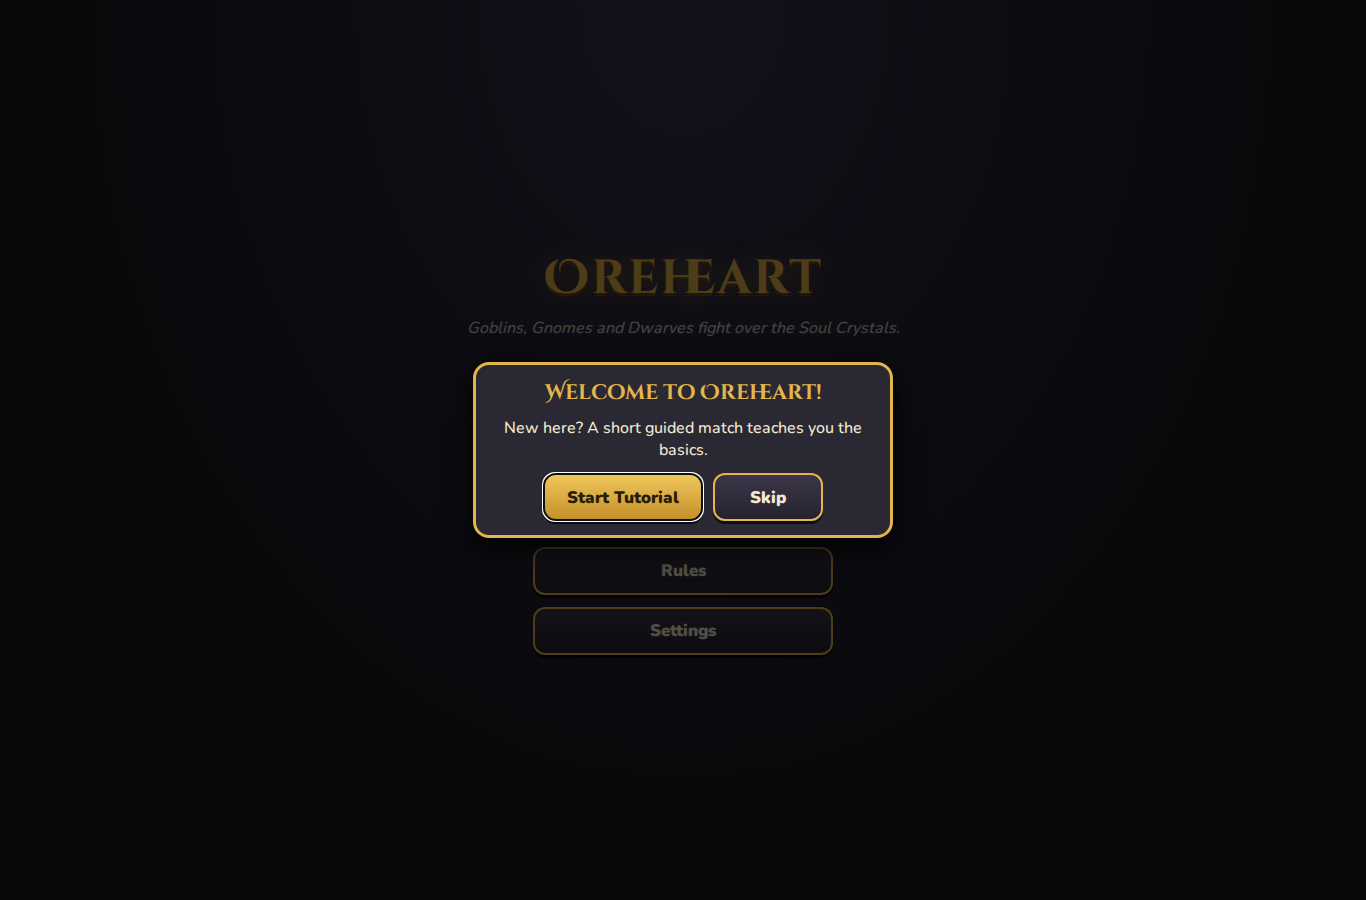
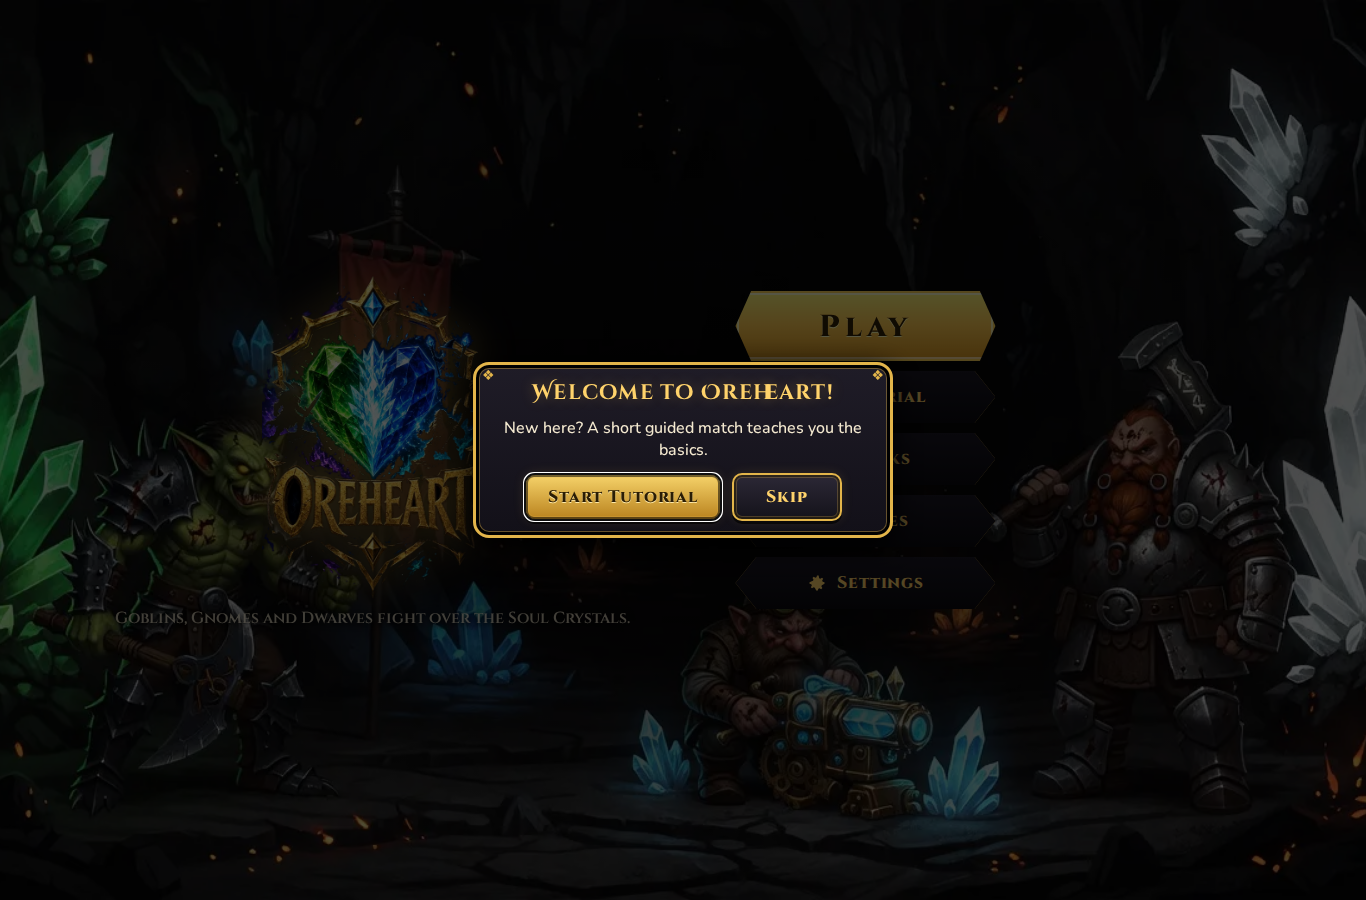
factory: report for #8

diff --git a/factory-data/oreheart-8/REPORT.md b/factory-data/oreheart-8/REPORT.md
@@ -1,22 +1,23 @@
 ## What was built
-Oreheart is a comic-style fantasy card battle in the browser: you play one full match against a computer opponent (Easy, Normal or Hard), or a guided tutorial. This round (the final test round) adds a visual Deck Builder, a new Commander and deck select screen, a savings rule (10 spare crystals move to the Bank), swinging pickaxes on mines, an attack preview, a "Last turn" recap, and a match-end summary.
+Phase 1B Round 1, the art and sound style test. Oreheart now has a dark-fantasy look: a new logo and main menu, finished 3D Goblins, Grubnak with his rocket-barrel retreat, all three Strongholds, a darker battlefield, glowing mines, and a new card design. Goblin card pictures were generated with the Grok image tool. Sound effects and Goblin voices are included, with no music. No game rules were changed.
 
 ## Try these things
-- Open the menu, press **Tutorial**, and follow the tips all the way to Victory.
-- Press **Decks**: single-click a card to enlarge it, double-click to add it, try **Auto-fill**, then **Save**.
-- Press **Play**, pick a Commander, pick a deck (or "+ New Deck"), choose **Hard**, then **Fight!**
-- In a match, drag one of your creatures over an enemy and check the "You deal / You take" box. Let go elsewhere to cancel.
-- Finish your turn with 10 or more crystals and watch "+1 banked" fly into the Bank. After the enemy moves, press **Last turn**.
-- Win or surrender, then check the summary and press **Play again**.
+- Open the main menu and check that the logo and the five buttons look right and match your reference images. Click anywhere first, because sound only starts after a tap.
+- Start a match as Grubnak and look at the Goblin creatures. Tap one to see its funny reaction.
+- Look at the cards in your hand. Do the new frames and Goblin pictures look right?
+- Open Decks and scroll through the cards to see the new card design for every faction.
+- Attack Grubnak's opponent to defeat the Commander and watch the rocket-barrel retreat and KA-BOOM.
+- Open Settings and try the "Sound effects" and "Voices" sliders. In a match, try the mute button.
 
 ## Automated checks
-129 of 129 checks passed. No page errors were recorded.
+142 of 142 checks passed. The checks cover the old game rules and the new art, card and sound features.
 
 ## Things to know
-- The Hard computer opponent's Miner protection and Guard placement is only approximated, so Hard may feel less clever than the spec describes.
-- The builder only checked the pickaxe and Deck Builder layouts in a headless browser at one phone size (844×390).
-- The only screenshots available show the welcome pop-up on the menu (desktop) and the "please rotate your phone" screen (upright phone). Both look fine. I could not see the Deck Builder, select screen or match visually, so please check those yourself in the preview.
-- Visuals are still placeholders and there is no sound.
+- Gnome and Dwarf creatures, Sproingle and Borgo still use plain placeholder figures. This was planned.
+- Gnome and Dwarf cards keep their old pictures inside the new frame.
+- I could only see two screenshots: the main menu on desktop and the "rotate your phone" screen. The menu looks polished, but the welcome pop-up hides part of it. I did not see any in-match screenshots, so I could not check the 3D art myself. Please judge it in the preview.
+- The sounds are synthesized, not recorded, so they may sound simple.
+- The build notes include older "visuals are placeholders; no sound" lines. They are leftovers from earlier rounds.
 
 ## Recommendation
 Ready to approve

diff --git a/factory-data/oreheart-8/test-results.md b/factory-data/oreheart-8/test-results.md
@@ -1,6 +1,6 @@
 # Automated check results
 
-129 of 129 checks passed after 2 build round(s).
+142 of 142 checks passed after 1 build round(s).
 
 - ✅ landscape phone viewport 844x390 › AC24: menu and full-screen match fit a 844x390 landscape phone
 - ✅ landscape phone viewport 740x360 › AC24: menu and full-screen match fit a 740x360 landscape phone
@@ -13,6 +13,7 @@
 - ✅ hearts and turn display 667x375 › AC51: Commander hearts never cover creature labels; turn display top-right (667x375)
 - ✅ hand pop-out at 2x › AC59: a hovered hand card doubles in size and stays fully on-screen
 - ✅ compact stat pill › AC66: creature labels are compact pills with Attack, Health, Movement
+- ✅ phone-size match screenshot › AC90: the match screen renders full screen at 844x390 with no page errors
 - ✅ AC1: main menu has exactly Play, Tutorial, Decks, Rules, Settings and no page errors
 - ✅ AC1: starting a test-mode match causes no page errors
 - ✅ AC2: menu -> choose Commander -> mulligan -> match
@@ -131,3 +132,15 @@
 - ✅ AC75: the tutorial runs to the end, teaching only the current rules
 - ✅ AC76: the Last turn recap lists what the enemy did
 - ✅ AC77: a mine with ready Miners shows the swinging pickaxe count; it goes once they mined
+- ✅ AC79: main menu shows the logo as the h1, the tagline and the five plaques
+- ✅ AC80: every Goblin creature has a finished figure; Gnomes and Dwarves are placeholders
+- ✅ AC81: every Goblin creature has a committed WebP card picture and an art entry
+- ✅ AC82: every card has a tagline and a flavor line
+- ✅ AC83: a Goblin hand card uses the new card face with its picture and rarity
+- ✅ AC84: finished Goblin figures, Grubnak, Strongholds and mines on the battlefield
+- ✅ AC85: poking a Goblin figure plays a reaction and changes nothing
+- ✅ AC86: CREDITS.md lists fonts, card pictures and every outside asset file
+- ✅ AC87: sound stays locked until the first tap
+- ✅ AC88: volume sliders and the match mute button are remembered
+- ✅ AC89: Low graphics turns off bloom, shadows and particles and uses fewer draw calls
+- ✅ AC90: the built dist folder stays under 40 MB
